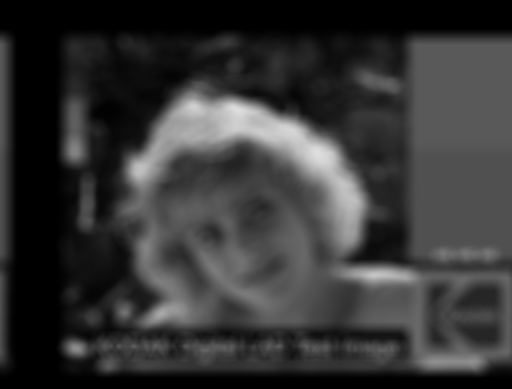
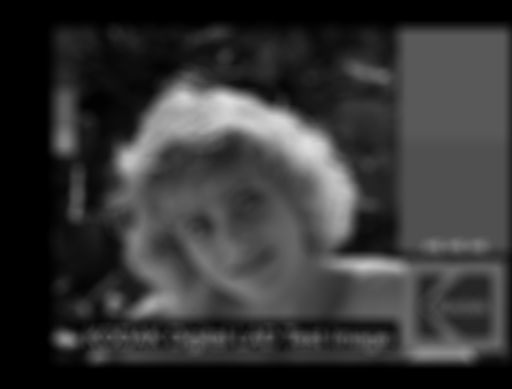
switched to another method of extending matrix to infinity

diff --git a/Program.cs b/Program.cs
@@ -27,9 +27,9 @@ namespace Convolution
         static Matrix Convolution(Tuple<int, int> dimension, MatrixInfinite matrixInfinite, Matrix matrixFinite)
         {
             var output = new Matrix(dimension.Item1, dimension.Item2);
-            for (var i1 = 0; i1 < matrixFinite.RowCount; i1++)
+            for (var i1 = matrixFinite.Ranges[0, 0]; i1 < matrixFinite.Ranges[0, 1]; i1++)
             {
-                for (var j1 = 0; j1 < matrixFinite.ColumnCount; j1++)
+                for (var j1 = matrixFinite.Ranges[1, 0]; j1 < matrixFinite.Ranges[1, 1]; j1++)
                 {
                     if (matrixFinite[i1, j1] != 0)
                     {
@@ -49,7 +49,7 @@ namespace Convolution
         static Matrix Blur(Matrix input, Matrix pattern)
         {
             var dimension = new Tuple<int, int>(input.RowCount, input.ColumnCount);
-            return Convolution(dimension, new MatrixInfiniteMod(input), pattern) / Sum(pattern);
+            return Convolution(dimension, new MatrixInfiniteZero(input), pattern.Center()) / Sum(pattern);
         }
 
         static void Main(string[] args)
